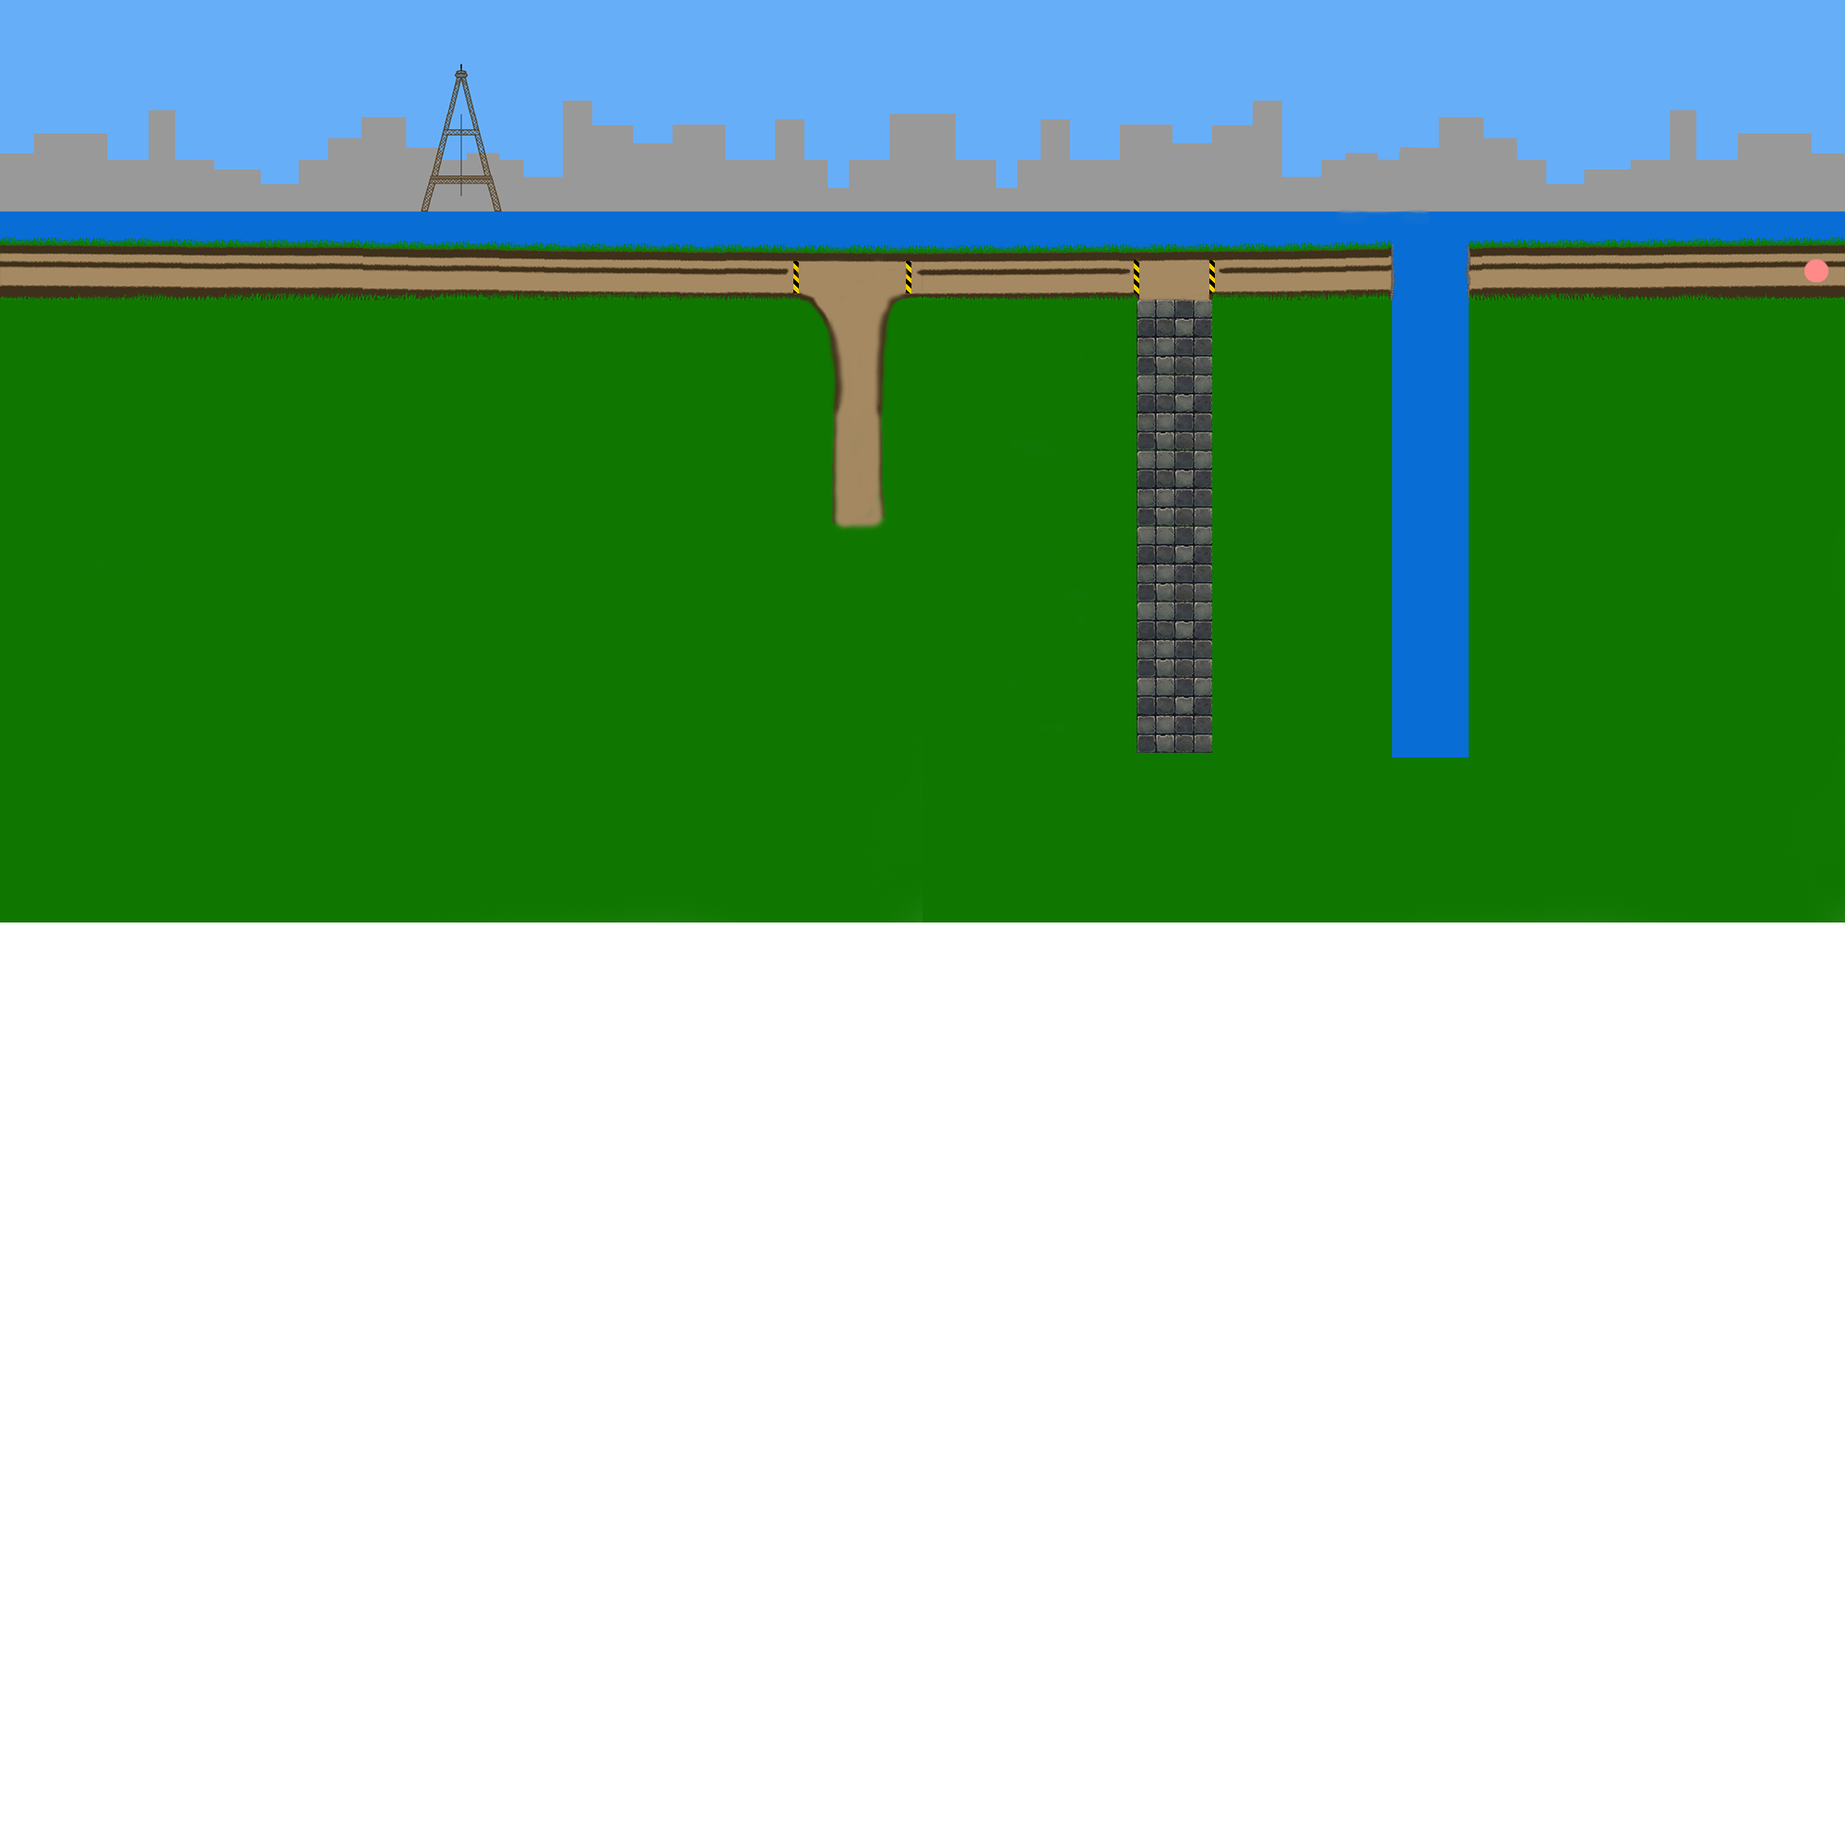
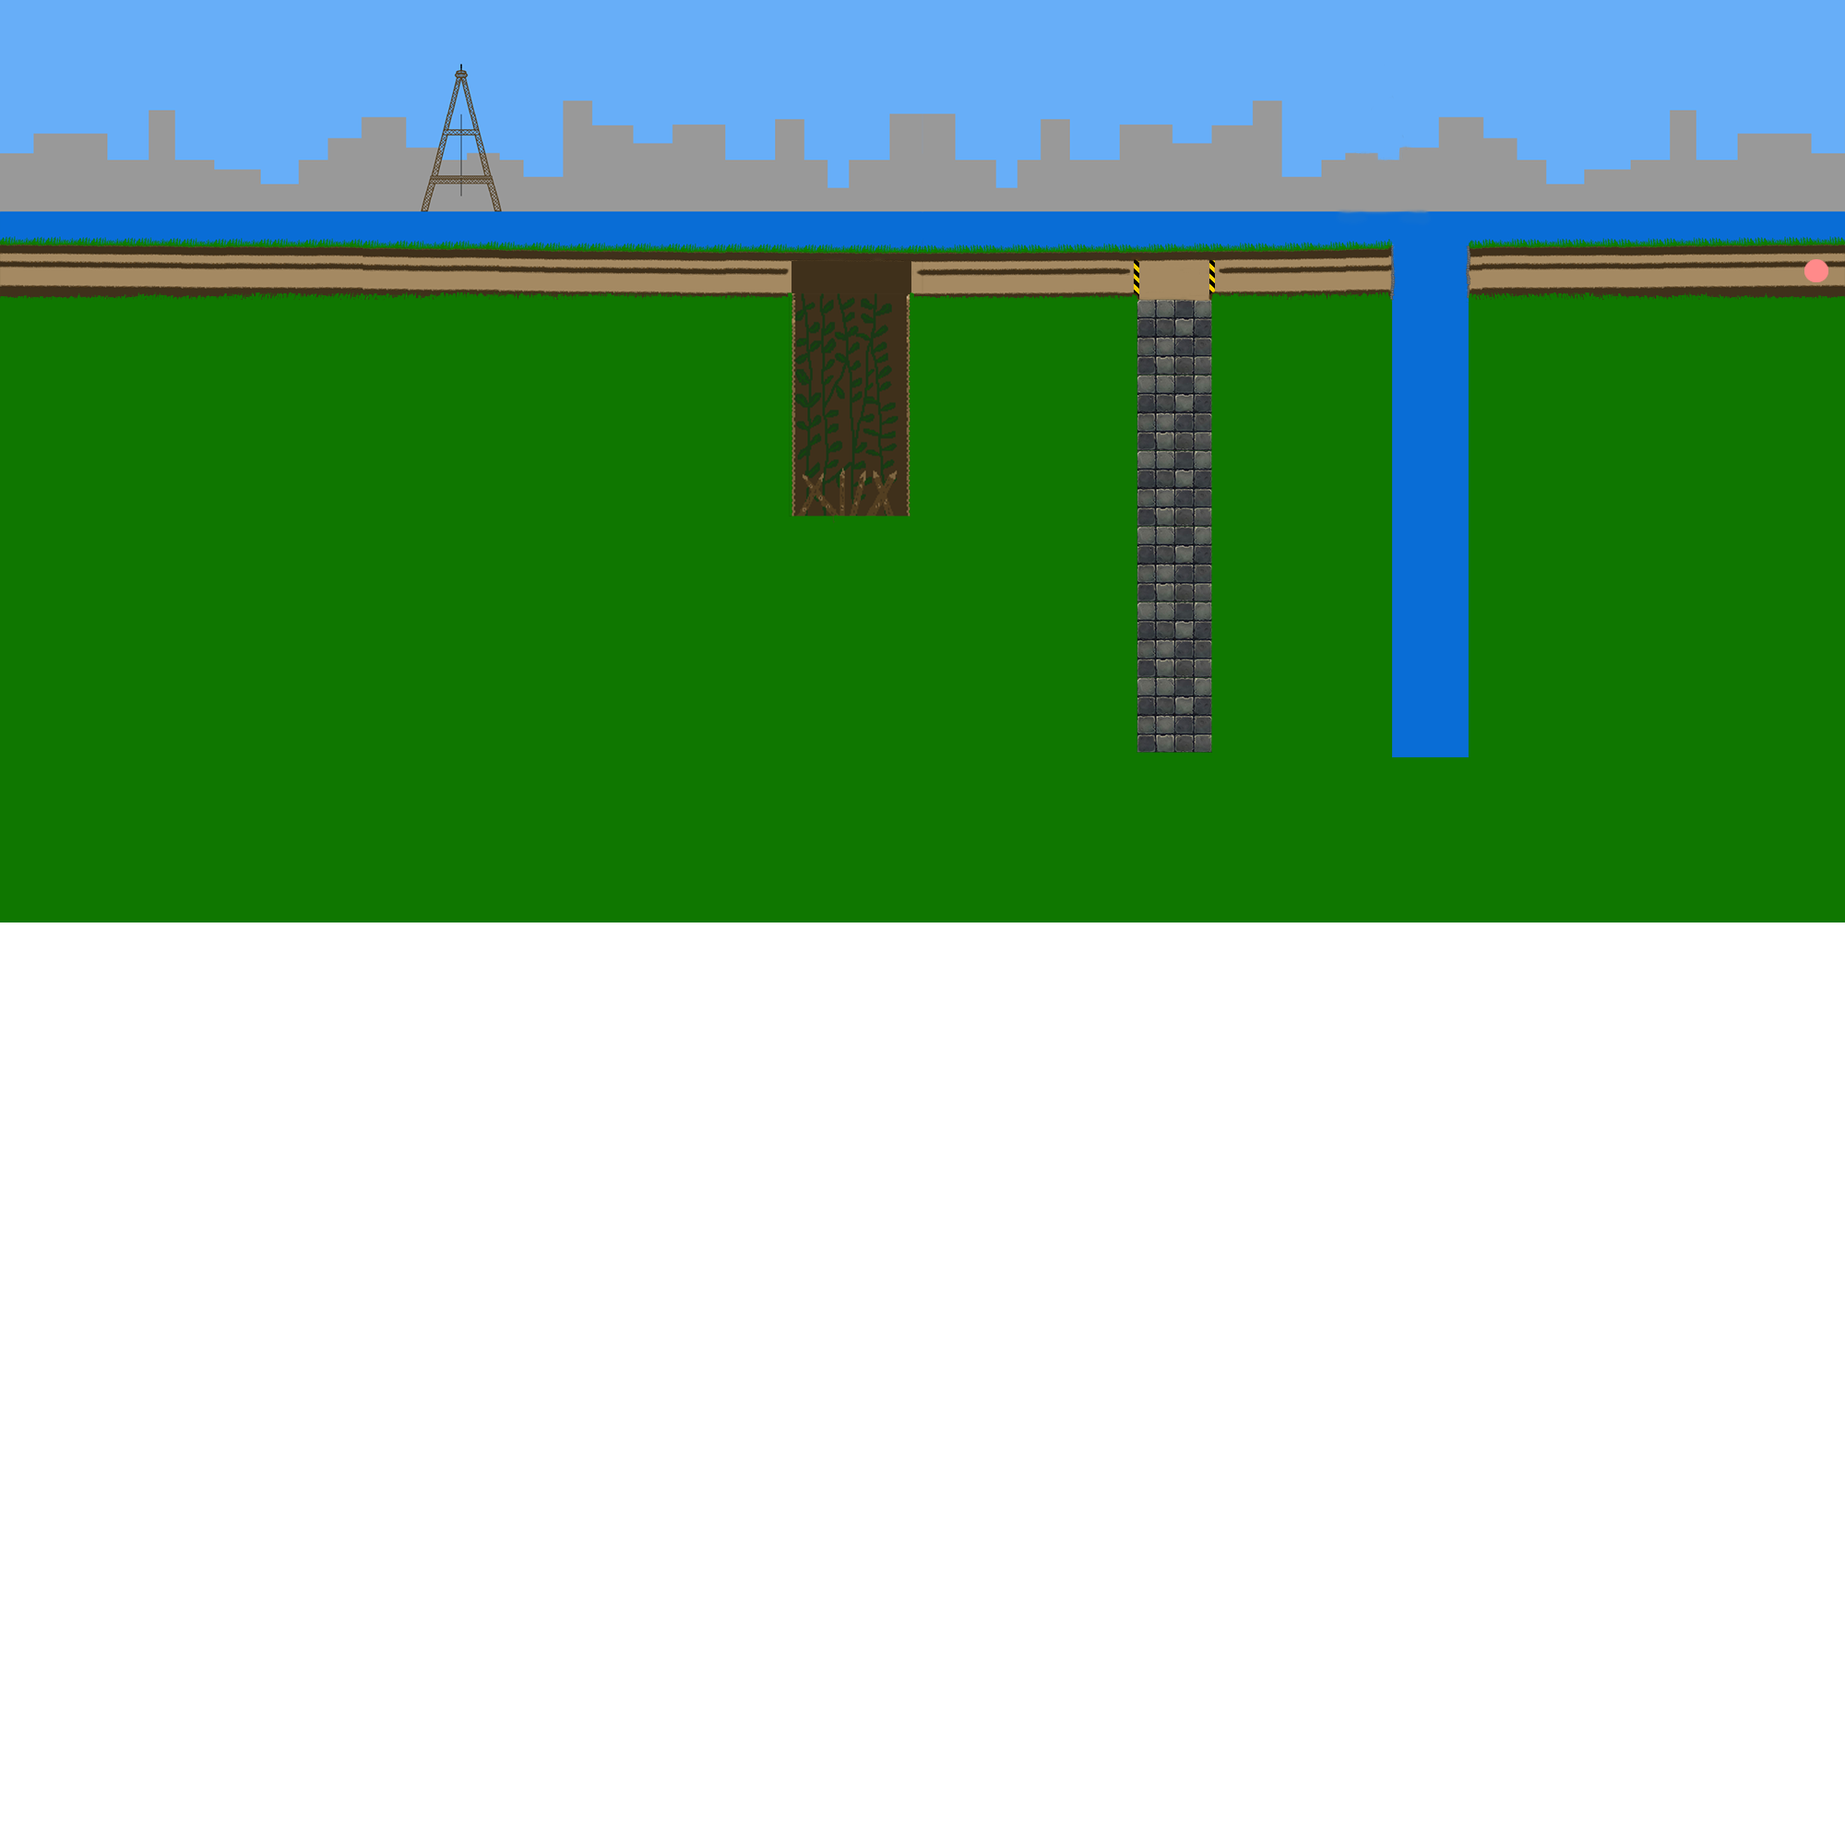
Convert traps to object & update switch level

Changed region(s): [[0.403, 0.124, 0.496, 0.31]]

diff --git a/src/com/supinfo/project/crashbandicoot/game/Level.java b/src/com/supinfo/project/crashbandicoot/game/Level.java
@@ -32,14 +32,15 @@ public class Level {
 
     Texture textureFruit;
     Texture textureBoxe;
-    Texture texturePique;
 
-    ArrayList<Fruit> fruits = new ArrayList<>();
+    public static ArrayList<Fruit> fruits = new ArrayList<>();
     ArrayList<Boxes> boxes = new ArrayList<Boxes>();
 
     ArrayList<Crab> crabs = new ArrayList<>();
     ArrayList<Fish> fishs = new ArrayList<>();
     ArrayList<Plant> plants = new ArrayList<>();
+
+    ArrayList<Traps> traps = new ArrayList<>();
 
     private static Player player = new Player(10, 80);
     private static AkuAku akuaku = new AkuAku(8, 90);
@@ -47,6 +48,8 @@ public class Level {
     ObjectsAnimation animFruits;
 
     public static AudioControl wompasSound = new AudioControl();
+
+    int loadLevel = 0;
 
     public Level(int width, int height) {
         this.width = width;
@@ -83,29 +86,31 @@ public class Level {
         solidTile = new Tile[width][height];
         textureFruit = Texture.apple;
         textureBoxe = Texture.boxe;
-        texturePique = Texture.pique;
-
-        for (int i = 0; i < width; i++) {
-            for (int j = 7; j < 15; j++) {
-                if(Level.levelNumber == 1 && i != 28 && i != 48 && i != 49) {
-                    solidTile[i][j] = new Tile(i, j, 0, 0, Tile.Tiles.COL);
-                } else if(Level.levelNumber == 2){
-                    solidTile[i][j] = new Tile(i, j, 0, 0, Tile.Tiles.COL);
-                }
-            }
-        }
+        //texturePique = Texture.pique;
 
         initObjects();
         initEntities();
         animFruits.play();
 
-        Traps.init();
+        //Traps.init();
 
         Header.init();
 
         //wompasSound.init(new File("./res/sounds/wompas.wav"));
 
         ScreenLoader.init();
+    }
+
+    public void mapInit() {
+        for (int i = 0; i < width; i++) {
+            for (int j = 7; j < 15; j++) {
+                if(Level.levelNumber == 1 && i != 28 && i != 48 && i != 49) {
+                    solidTile[i][j] = new Tile(i, j, 0, 0, Tile.Tiles.COL);
+                } else if(Level.levelNumber == 2 && i != 5){
+                    solidTile[i][j] = new Tile(i, j, 0, 0, Tile.Tiles.COL);
+                }
+            }
+        }
     }
 
     public void addEntity(Entity e) {
@@ -123,9 +128,18 @@ public class Level {
             e.update();
         }
 
-        Traps.update();
+        for (int i = 0; i < traps.size(); i++) {
+            traps.get(i).update();
+        }
+        //Traps.update();
 
         animFruits.update();
+
+        if(loadLevel < Level.levelNumber) {
+            loadLevel = Level.levelNumber;
+            mapInit();
+            initObjects();
+        }
     }
 
     public void render() {
@@ -139,20 +153,28 @@ public class Level {
     }
 
     public void initObjects() {
-        fruits.add(new Fruit(120, 120, false, 1));
-        fruits.add(new Fruit(200, 80, false, 1));
-        fruits.add(new Fruit(290, 120, false, 1));
-        fruits.add(new Fruit(450, 90, false, 1));
-        fruits.add(new Fruit(550, 90, false, 1));
-        fruits.add(new Fruit(750, 90, false, 1));
-        fruits.add(new Fruit(850, 120, false, 1));
-        fruits.add(new Fruit(950, 90, false, 1));
+        fruits.clear();
+
+        if(Level.levelNumber == 1) {
+            fruits.add(new Fruit(120, 120, false, 1));
+            fruits.add(new Fruit(200, 80, false, 1));
+            fruits.add(new Fruit(290, 120, false, 1));
+            fruits.add(new Fruit(450, 90, false, 1));
+            fruits.add(new Fruit(550, 90, false, 1));
+            fruits.add(new Fruit(750, 90, false, 1));
+            fruits.add(new Fruit(850, 120, false, 1));
+            fruits.add(new Fruit(950, 90, false, 1));
+        } else if(Level.levelNumber == 2) {
+
+        }
     }
 
     public void initEntities() {
         crabs.add(new Crab(880, 135, 1));
         fishs.add(new Fish(792, 150, 1));
         plants.add(new Plant(350, 115, 1));
+
+        traps.add(new Traps(643, 170, 1));
 
         for (int i = 0; i < crabs.size(); i++) {
             crabs.get(i).init(this);
@@ -187,9 +209,13 @@ public class Level {
         }
         textureBoxe.unbind();
 
-        texturePique.bind();
+        for (int i = 0; i < traps.size(); i++) {
+            traps.get(i).render();
+        }
+
+        /*texturePique.bind();
             Renderer.renderEntity(643, 170 - Traps.animPique.getCurrentCoord(), 32, 64, Colors.WHITE, 2f, 0, 0);
-        texturePique.unbind();
+        texturePique.unbind();*/
 
         for (int i = 0; i < fruits.size(); i++) {
             if (fruits.get(i).getEat() == false && fruits.get(i).getLevel() == 1)

diff --git a/src/com/supinfo/project/crashbandicoot/game/Traps.java b/src/com/supinfo/project/crashbandicoot/game/Traps.java
@@ -1,17 +1,35 @@
 package com.supinfo.project.crashbandicoot.game;
 
 import com.supinfo.project.crashbandicoot.entities.Player;
+import com.supinfo.project.crashbandicoot.graphics.Colors;
+import com.supinfo.project.crashbandicoot.graphics.Renderer;
+import com.supinfo.project.crashbandicoot.graphics.Texture;
 import com.supinfo.project.crashbandicoot.utiles.Delay;
 import com.supinfo.project.crashbandicoot.utiles.ObjectsAnimation;
 
 public class Traps {
 
+    static int x, y;
+    static int level;
+
     static int time = 0;
     static int speed = 50;
+
+    static Texture texturePique;
 
     public static ObjectsAnimation animPique;
 
     static Delay delay;
+
+    public Traps(int x, int y, int level) {
+        this.x = x;
+        this.y = y;
+        this.level = level;
+
+        texturePique = Texture.pique;
+
+        init();
+    }
 
     public static void init() {
         animPique = new ObjectsAnimation(50, 0, false);
@@ -22,37 +40,46 @@ public class Traps {
     static int rand;
 
     public static void update() {
+        if(level == Level.levelNumber) {
+            animPique.update();
 
-        animPique.update();
+            if (true) {
+                time++;
+                if (time > speed) {
 
-        if (true) {
-            time++;
-            if (time > speed) {
+                    rand = 1 + (int)(Math.random() * ((8 - 1) + 1));
 
-                rand = 1 + (int)(Math.random() * ((8 - 1) + 1));
+                    if(rand == 5) {
+                        animPique.play();
+                    }
 
-                if(rand == 5) {
-                    animPique.play();
+                    time = 0;
                 }
+            }
 
-                time = 0;
+            // Traps collide detection
+            if ((Player.playerX+10 >= 643 + 32)
+                    || (Player.playerX+10 + Player.playerBoxWidth-20 <= 643)
+                    || (Player.playerY+10 >= 170 - animPique.getCurrentCoord() + 64)
+                    || (Player.playerY+10 + Player.playerBoxHeight-20 <= 170 - animPique.getCurrentCoord())){
+                // Player is not in a area
+            } else {
+                if(delay.talk() == true) {
+                    Player.killPlayer = true;
+                    System.out.println("[Player] was killed by Traps !");
+                    delay.start();
+                }
             }
         }
 
-        // Traps collide detection
-        if ((Player.playerX+10 >= 643 + 32)
-                || (Player.playerX+10 + Player.playerBoxWidth-20 <= 643)
-                || (Player.playerY+10 >= 170 - animPique.getCurrentCoord() + 64)
-                || (Player.playerY+10 + Player.playerBoxHeight-20 <= 170 - animPique.getCurrentCoord())){
-            // Player is not in a area
-        } else {
-            if(delay.talk() == true) {
-                Player.killPlayer = true;
+    }
 
-                delay.start();
-            }
+    public static void render() {
+        if(level == Level.levelNumber) {
+            texturePique.bind();
+                Renderer.renderEntity(x, y - animPique.getCurrentCoord(), 32, 64, Colors.WHITE, 2f, 0, 0);
+            texturePique.unbind();
         }
-
     }
 
 }

diff --git a/src/com/supinfo/project/crashbandicoot/entities/Player.java b/src/com/supinfo/project/crashbandicoot/entities/Player.java
@@ -63,12 +63,12 @@ public class Player extends Entity{
         playerX = x;
         playerY = y;
 
-        if (keysEnable == true && Keyboard.isKeyDown(Keyboard.KEY_D) || Keyboard.isKeyDown(Keyboard.KEY_RIGHT) && x < 990) {
+        if (keysEnable == true && Keyboard.isKeyDown(Keyboard.KEY_D) || Keyboard.isKeyDown(Keyboard.KEY_RIGHT)/* && x < 990*/) {
             xa += speed;
             if(dir != 0) dir = 0;
             anim.play();
         }
-        if(keysEnable == true && x < 990 && moveRight == true) {
+        if(keysEnable == true /*&& x < 990*/ && moveRight == true) {
             xa += speed;
             if(dir != 0) dir = 0;
             anim.play();
@@ -110,7 +110,6 @@ public class Player extends Entity{
                 ya -= 20;
             }
         }
-
 
 
         if (keysEnable == true && Keyboard.isKeyDown(Keyboard.KEY_S) || Keyboard.isKeyDown(Keyboard.KEY_DOWN)) {
@@ -209,7 +208,7 @@ public class Player extends Entity{
                 if(level.fruits.get(i).getEat() == false) {
                     level.fruits.get(i).setEat(true);
                     numberFruits++;
-                    Level.wompasSound.play();
+                    //Level.wompasSound.play();
                 }
             }
 

diff --git a/src/com/supinfo/project/crashbandicoot/game/tiles/Tile.java b/src/com/supinfo/project/crashbandicoot/game/tiles/Tile.java
@@ -42,13 +42,13 @@ public class Tile {
         if(Level.levelNumber == 1) {
             Texture.tilesLvl1.bind();
                 glBegin(GL_QUADS);
-                Renderer.quadData(x * size, y * size, size, size, Colors.WHITE, 32.0f, xo, yo);
+                    Renderer.quadData(x * size, y * size, size, size, Colors.WHITE, 32.0f, xo, yo);
                 glEnd();
             Texture.tilesLvl1.unbind();
         } else if (Level.levelNumber == 2) {
             Texture.tilesLvl2.bind();
                 glBegin(GL_QUADS);
-                Renderer.quadData(x * size, y * size, size, size, Colors.WHITE, 32.0f, xo, yo);
+                    Renderer.quadData(x * size, y * size, size, size, Colors.WHITE, 32.0f, xo, yo);
                 glEnd();
             Texture.tilesLvl2.unbind();
         }

diff --git a/src/com/supinfo/project/crashbandicoot/graphics/Renderer.java b/src/com/supinfo/project/crashbandicoot/graphics/Renderer.java
@@ -68,12 +68,9 @@ public class Renderer {
                 if(invert == false) {
                     if(alpha < 1.1f){
                         alpha += 0.1f;
-                        System.out.println("p1 : " + alpha);
                     } else {
-                        System.out.println("p2 : " + alpha);
                         loop = false;
                         if (type == 1) Level.levelNumber += 1;
-                        System.out.println("call !!");
                         drawText = true;
                     }
                 } else {

diff --git a/src/com/supinfo/project/crashbandicoot/entities/Plant.java b/src/com/supinfo/project/crashbandicoot/entities/Plant.java
@@ -83,7 +83,7 @@ public class Plant extends Entity{
                 if (Player.tornadoAttack == false) {
                     if(eating == true && delay.talk() == true) {
                         Player.killPlayer = true; // Player death
-
+                        System.out.println("[Player] was killed by Plant !");
                         delay.start();
                     }
                 } else {

diff --git a/src/com/supinfo/project/crashbandicoot/entities/Crab.java b/src/com/supinfo/project/crashbandicoot/entities/Crab.java
@@ -76,7 +76,7 @@ public class Crab extends Entity {
                 if (Player.tornadoAttack == false && delay.talk() == true) {
                     // Player death
                     Player.killPlayer = true;
-
+                    System.out.println("[Player] was killed by Crab !");
                     delay.start();
                 } else {
                     // Crab kill

diff --git a/src/com/supinfo/project/crashbandicoot/game/Game.java b/src/com/supinfo/project/crashbandicoot/game/Game.java
@@ -28,7 +28,8 @@ public class Game {
         level.update();
 
         if(Level.getPlayer().getX() > Component.frameWidth / 2 - 16) {
-            if (Player.playerX < 839)
+            //if (Player.playerX < 839)
+            if (Player.playerX < 850)
                 xa = -Level.getPlayer().getX() + Component.frameWidth / 2 - 16;
         } else {
             xa = -0.3f;

diff --git a/src/com/supinfo/project/crashbandicoot/entities/Fish.java b/src/com/supinfo/project/crashbandicoot/entities/Fish.java
@@ -73,6 +73,7 @@ public class Fish extends Entity {
                 if(delay.talk() == true) {
                     Player.killPlayer = true;
                     delay.start();
+                    System.out.println("[Player] was killed by Fish !");
                 }
             }
         }

diff --git a/src/com/supinfo/project/crashbandicoot/Component.java b/src/com/supinfo/project/crashbandicoot/Component.java
@@ -114,7 +114,7 @@ public class Component {
 
             Display.setTitle("Demake Crash Bandicoot - 1PROJ");
 
-            Display.setResizable(true);
+            Display.setResizable(false);
             Display.setFullscreen(false);
 
             Display.create();

diff --git a/src/com/supinfo/project/crashbandicoot/objects/Fruit.java b/src/com/supinfo/project/crashbandicoot/objects/Fruit.java
@@ -33,5 +33,4 @@ public class Fruit {
     public void setY(int newY) { y = newY; }
 
     public void setEat(boolean newEat) { eat = newEat; }
-
 }

diff --git a/README.md b/README.md
@@ -68,6 +68,8 @@ Langage : Java 8 (SE)
 - Message & animation chengement de niveau
 - Gestion du Game-Over
 - Message & animation game-over
+- Convertion des piques en objets
+- Amélioration du changement de niveau
 
 
 # Patchs
